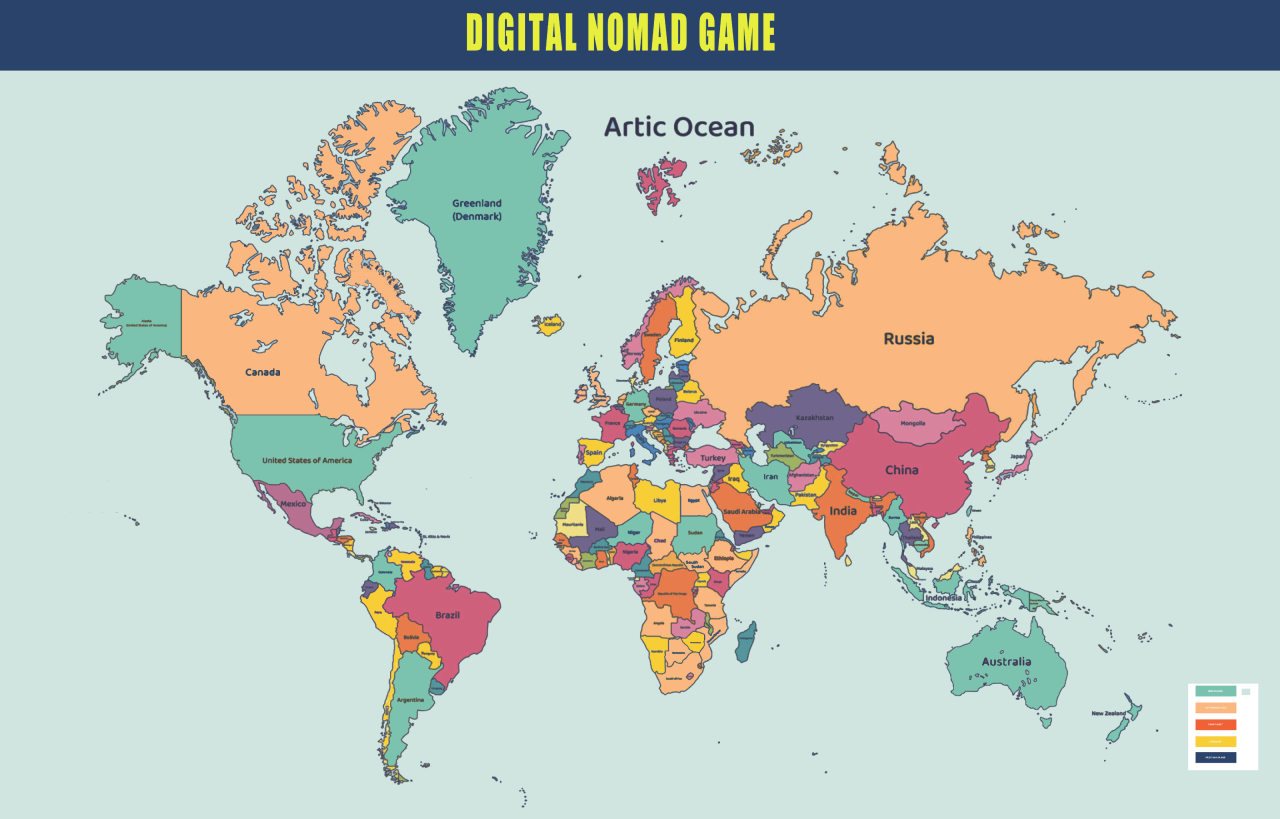
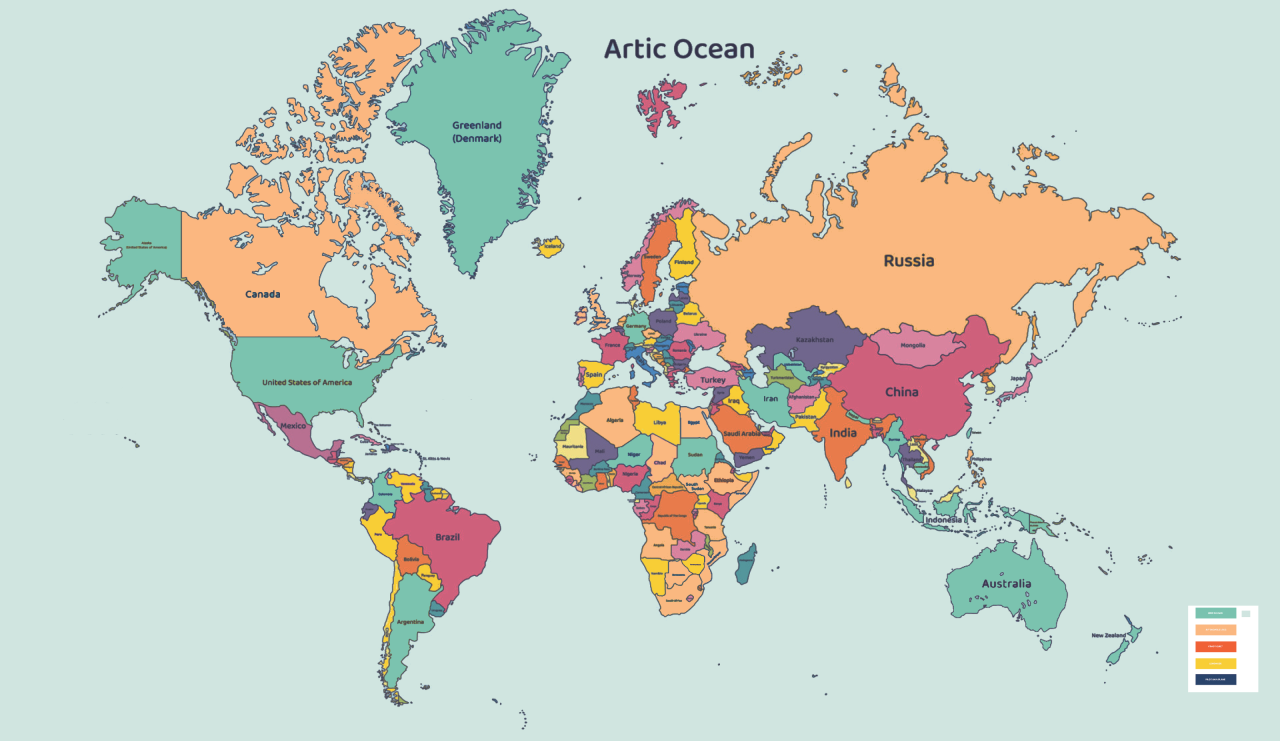
Your descriptive commit message

diff --git a/Komponenter/style.scss b/Komponenter/style.scss
@@ -1,0 +1,99 @@
+$primary-color: #01204E;
+$secondary-color: #F6C30D;
+$hover-color: #C8E0D9;
+$font-color: #fff;
+$font-primary: 'Bebas Neue', sans-serif;
+$font-secondary: 'Holtwood One SC', sans-serif;
+$shadow: rgba(0, 0, 0, 0.5);
+
+* {
+    margin: 0;
+    padding: 0;
+    box-sizing: border-box;
+}
+
+.header_con {
+    position: relative;
+    width: 100%;
+    padding: 0.625rem 1.25rem;
+    background-color: $primary-color;
+    color: $font-color;
+    display: flex;
+    justify-content: space-between;
+    align-items: center;
+  
+    .logo {
+      margin-right: auto; 
+      img {
+        height: 5rem; 
+      }
+    }
+
+    .header_txt {
+        font-family: $font-primary;
+        font-size: 4rem;
+        letter-spacing: 0.05rem;
+        color: $secondary-color;
+        padding: 0.625rem 0;
+        margin: 0 auto;
+      }
+  
+    .btn {
+      display: flex;
+      align-items: center;
+      margin-left: 1.25rem; 
+  
+      .nav_text {
+        color: $font-color;
+        font-family: $font-primary;
+        font-size: 1.5rem;
+        letter-spacing: 0.05rem;
+        text-decoration: none;
+        padding: 0.625rem 1rem; 
+        transition: background-color 0.3s ease;
+        text-shadow: 2px 2px 4px rgba(0, 0, 0, 0.5); 
+  
+        &:hover {
+          color: $hover-color; 
+        }
+      }
+    }
+  }
+  
+
+.page-con {
+    width: 100%;
+    height: calc(100vh - 60px); 
+    background-image: url('colorful-world-map-with-country-names-free-vector 1_edit_2 1.png');
+    background-size: cover;
+    background-position: center;
+    display: flex;
+    flex-direction: column;
+    justify-content: center;
+    align-items: center;
+    color: $font-color;
+    text-shadow: 2px 2px 4px $shadow;
+
+    h1 {
+        font-size: 7rem;  
+        letter-spacing: 0.05rem;          
+        font-family: $font-secondary;
+        text-align: left;            
+      }
+      
+      h2 {
+        font-size: 3rem;   
+        letter-spacing: 0.05rem;       
+        margin-top: 0.5rem;        
+        font-family: $font-secondary;
+        text-align: left;  
+    } 
+
+    .plane {
+        position: absolute;
+        right: 10%;
+        bottom: 10%;
+        width: 50px;
+        transform: rotate(20deg);
+    }
+}

diff --git a/Komponenter/style.css b/Komponenter/style.css
@@ -1,0 +1,84 @@
+* {
+  margin: 0;
+  padding: 0;
+  box-sizing: border-box;
+}
+
+.header_con {
+  position: relative;
+  width: 100%;
+  padding: 0.625rem 1.25rem;
+  background-color: #01204E;
+  color: #fff;
+  display: flex;
+  justify-content: space-between;
+  align-items: center;
+}
+.header_con .logo {
+  margin-right: auto;
+}
+.header_con .logo img {
+  height: 5rem;
+}
+.header_con .header_txt {
+  font-family: "Bebas Neue", sans-serif;
+  font-size: 4rem;
+  letter-spacing: 0.05rem;
+  color: #F6C30D;
+  padding: 0.625rem 0;
+  margin: 0 auto;
+}
+.header_con .btn {
+  display: flex;
+  align-items: center;
+  margin-left: 1.25rem;
+}
+.header_con .btn .nav_text {
+  color: #fff;
+  font-family: "Bebas Neue", sans-serif;
+  font-size: 1.5rem;
+  letter-spacing: 0.05rem;
+  text-decoration: none;
+  padding: 0.625rem 1rem;
+  transition: background-color 0.3s ease;
+  text-shadow: 2px 2px 4px rgba(0, 0, 0, 0.5);
+}
+.header_con .btn .nav_text:hover {
+  color: #C8E0D9;
+}
+
+.page-con {
+  width: 100%;
+  height: calc(100vh - 60px);
+  background-image: url("colorful-world-map-with-country-names-free-vector 1_edit_2 1.png");
+  background-size: cover;
+  background-position: center;
+  display: flex;
+  flex-direction: column;
+  justify-content: center;
+  align-items: center;
+  color: #fff;
+  text-shadow: 2px 2px 4px rgba(0, 0, 0, 0.5);
+}
+.page-con h1 {
+  font-size: 7rem;
+  letter-spacing: 0.05rem;
+  font-family: "Holtwood One SC", sans-serif;
+  text-align: left;
+}
+.page-con h2 {
+  font-size: 3rem;
+  letter-spacing: 0.05rem;
+  margin-top: 0.5rem;
+  font-family: "Holtwood One SC", sans-serif;
+  text-align: left;
+}
+.page-con .plane {
+  position: absolute;
+  right: 10%;
+  bottom: 10%;
+  width: 50px;
+  transform: rotate(20deg);
+}
+
+/*# sourceMappingURL=style.css.map */

diff --git a/Komponenter/index.html b/Komponenter/index.html
@@ -1,0 +1,37 @@
+<!DOCTYPE html>
+<html lang="da">
+<head>
+    <meta charset="UTF-8">
+    <meta name="viewport" content="width=device-width, initial-scale=1.0">
+    <title>Document</title>
+    <link rel="stylesheet" href="style.css">
+    <link href="https://fonts.googleapis.com/css2?family=Inter:wght@100..900&display=swap" rel="stylesheet">
+    <link href="https://fonts.googleapis.com/css2?family=Holtwood+One+SC&display=swap" rel="stylesheet">
+    <link href="https://fonts.googleapis.com/css2?family=Bebas+Neue&display=swap" rel="stylesheet">
+</head>
+
+<body>
+  <header class="header_con">
+    <div class="logo">
+      <img src="logo.png" alt="Logo">
+    </div>
+
+    <h3 class="header_txt">DIGITAL NOMADS - THE GAME</h3>
+  
+    <nav class="btn">
+      <a href="#" class="nav_text">GAME RULES</a>
+    </nav>
+  
+    <nav class="btn">
+      <a href="#" class="nav_text">START GAME</a>
+    </nav>
+  </header>
+
+    <!-- forside indhold -->
+    <div class="page-con">
+        <h1>DIGITAL NOMADS</h1>
+        <h2>THE GAME</h2>
+        <img src="airplane.png" alt="sort flyvemaskine">
+    </div>
+
+</body>
